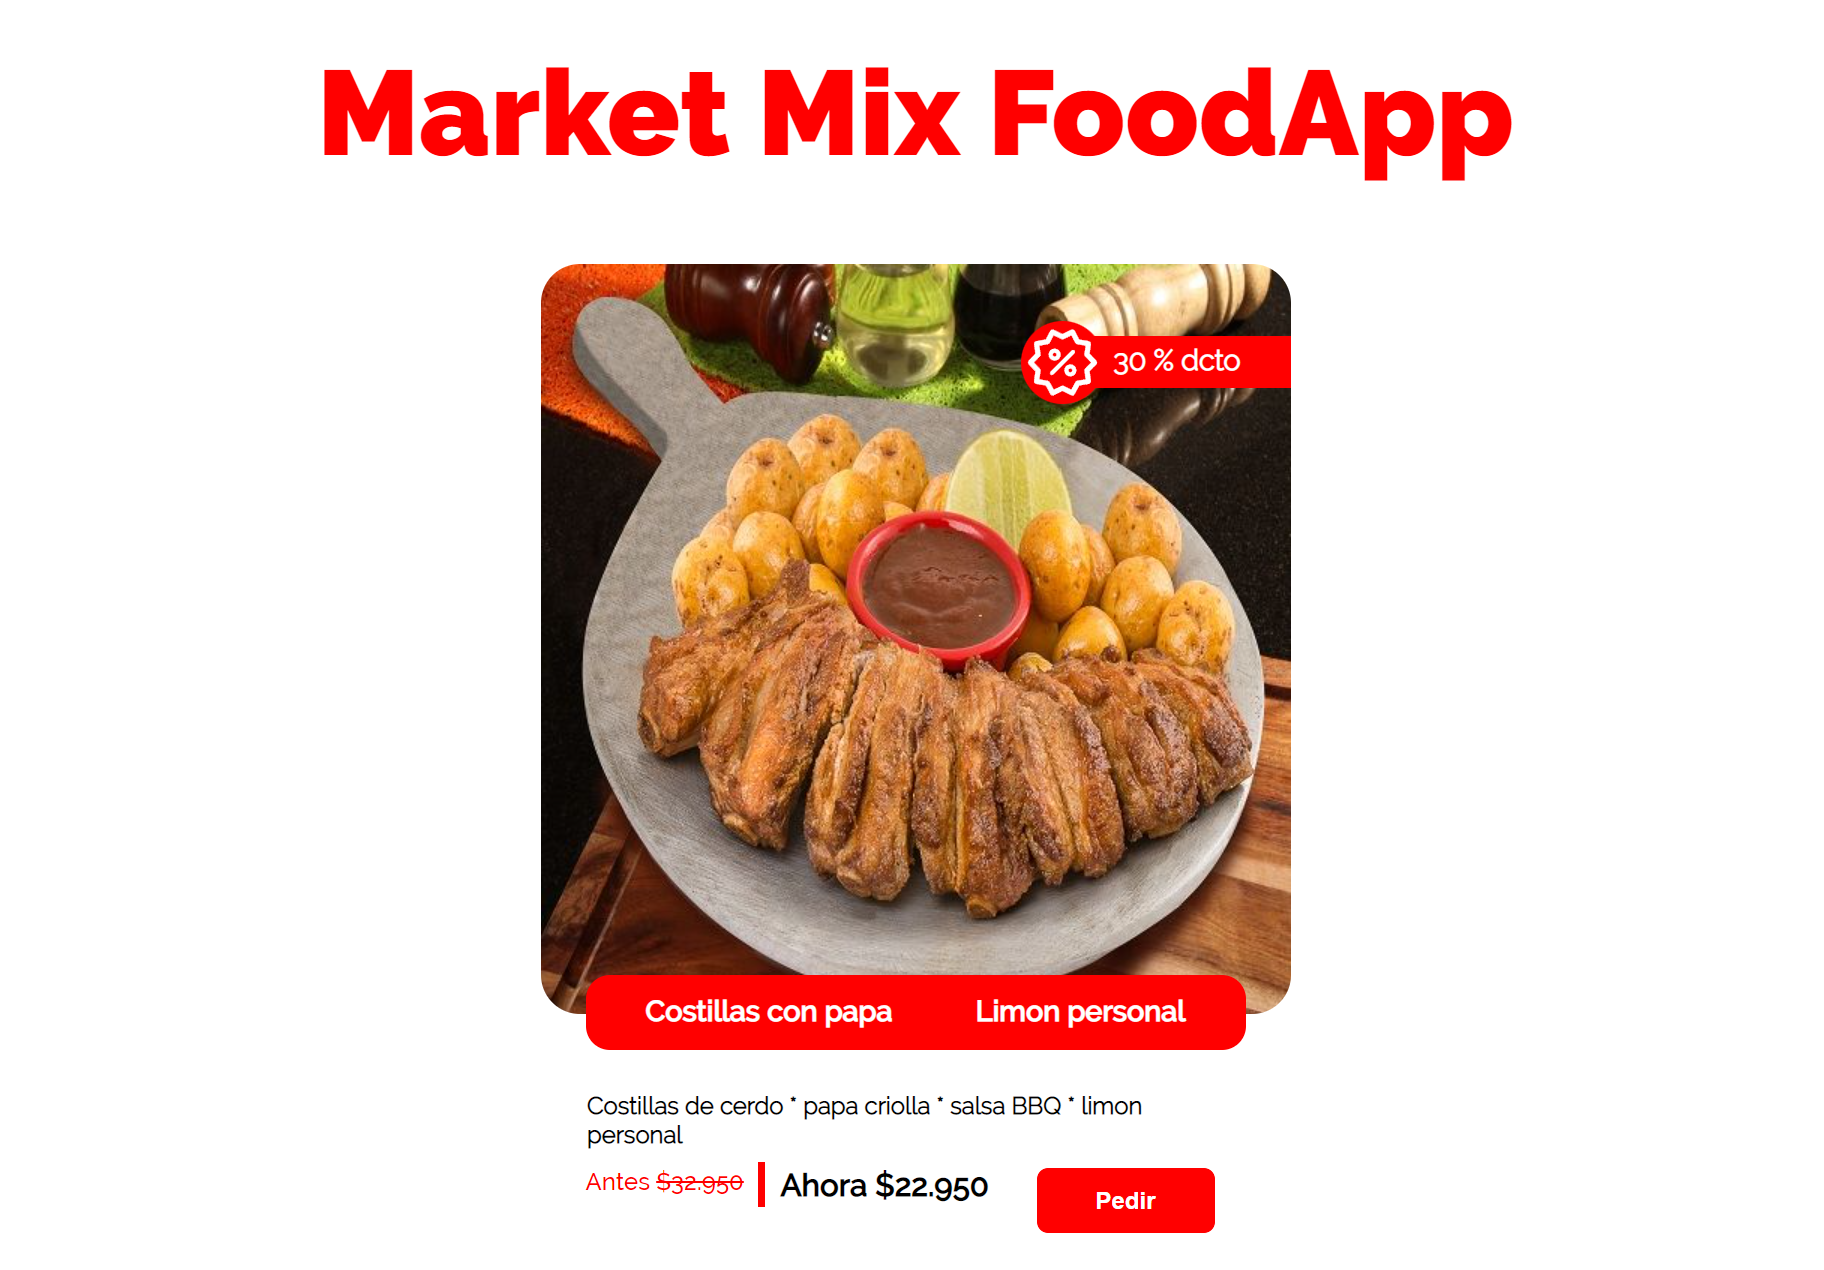
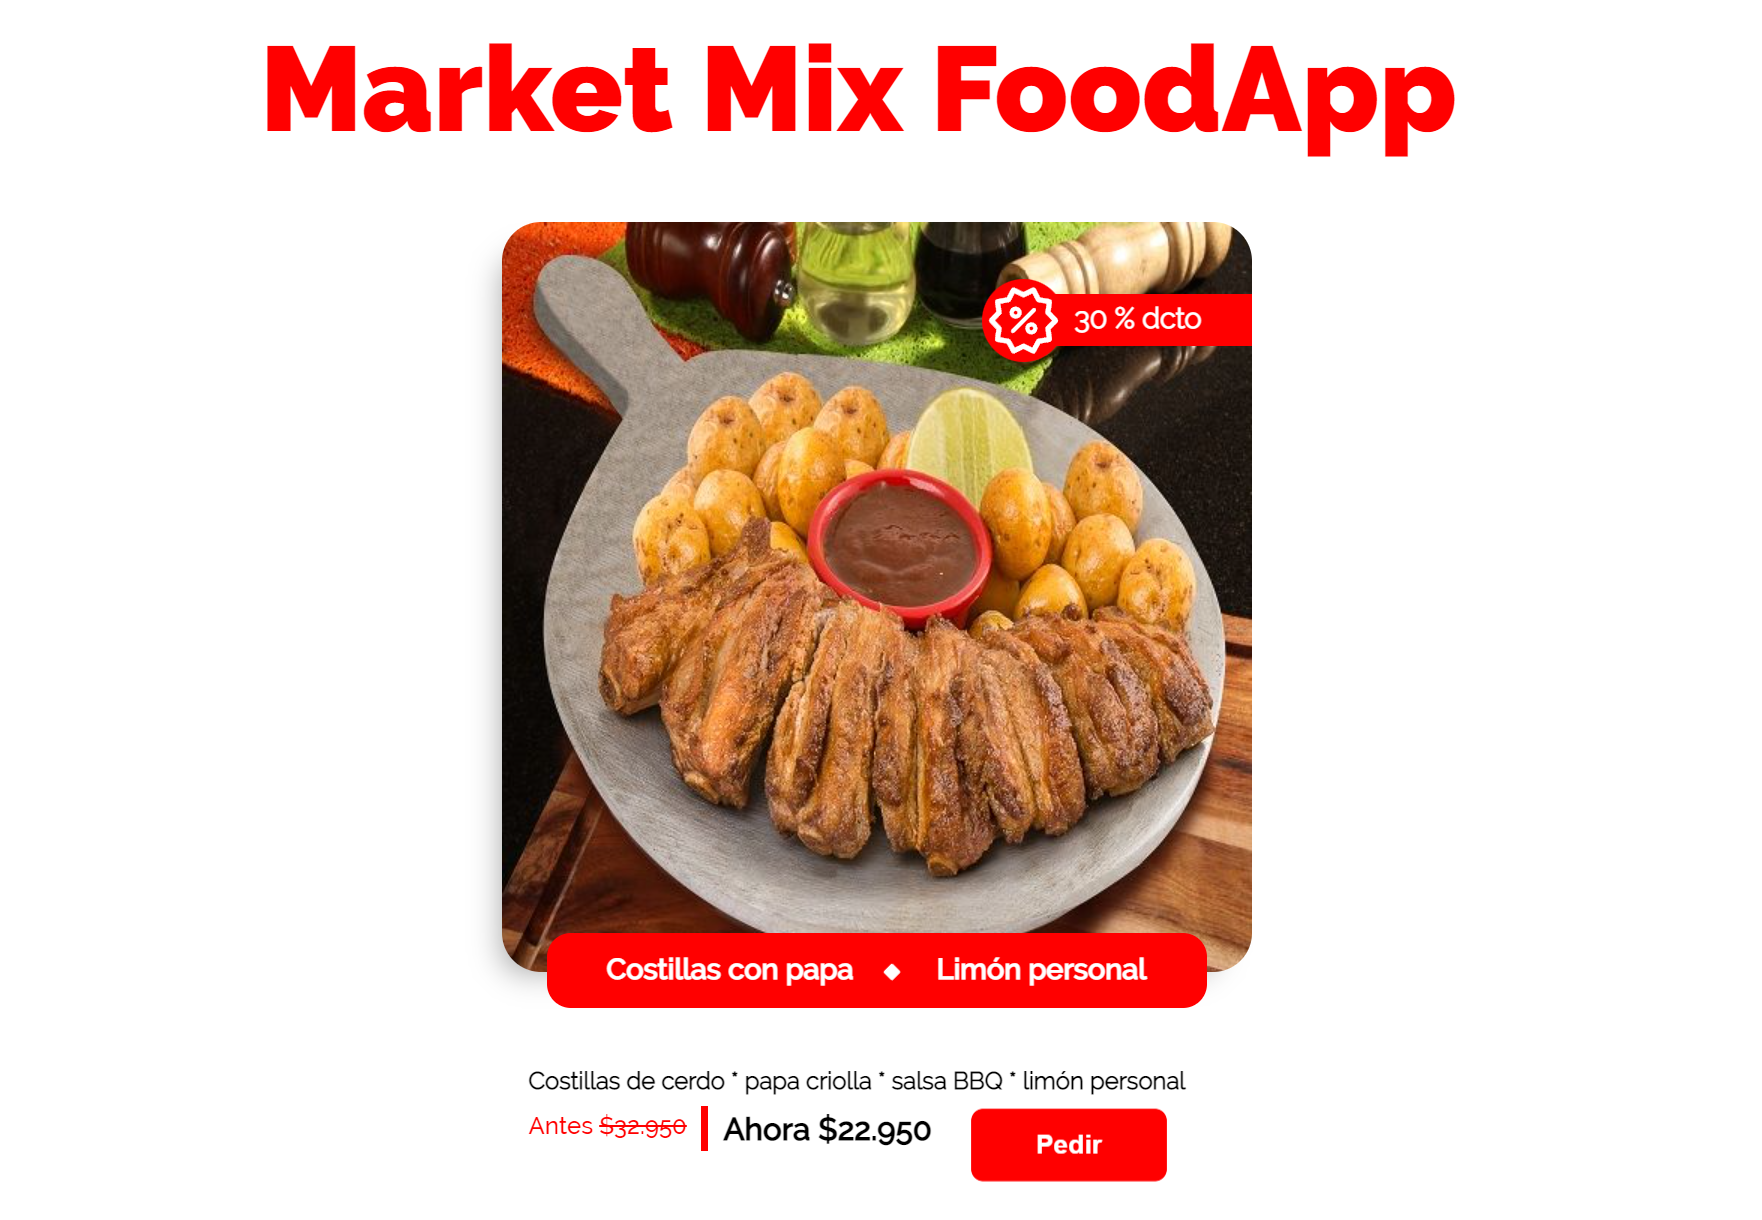
Hover Slide Done and some tweaks

Changed region(s): [[0.2809, 0.1557, 0.7179, 0.841], [0.1249, 0.0311, 0.8428, 0.1557], [0.3121, 0.841, 0.6867, 0.9967]]

diff --git a/styles.css b/styles.css
@@ -1,3 +1,94 @@
+@keyframes heartbeat {
+  from {
+    transform: scale(1);
+    transform-origin: center center;
+    animation-timing-function: ease-out;
+  }
+  10% {
+    transform: scale(0.91);
+    animation-timing-function: ease-in;
+  }
+  17% {
+    transform: scale(0.98);
+    animation-timing-function: ease-out;
+  }
+  33% {
+    transform: scale(0.87);
+    animation-timing-function: ease-in;
+  }
+  45% {
+    transform: scale(1);
+    animation-timing-function: ease-out;
+  }
+}
+
+@keyframes pulsate-fwd {
+  0% {
+    transform: scale(1);
+  }
+  50% {
+    transform: scale(1.1);
+  }
+  100% {
+    transform: scale(1);
+  }
+}
+
+@keyframes shadow-drop-2-tr {
+  0% {
+    transform: translateZ(0) translateX(0) translateY(0);
+    box-shadow: 0 0 0 0 transparent;
+  }
+  100% {
+    transform: translateZ(50px) translateX(-12px) translateY(12px);
+    box-shadow: 12px -12px 20px -12px rgba(0, 0, 0, 0.35);
+  }
+}
+
+@keyframes shadow-drop-2-bl {
+  0% {
+    transform: translateZ(0) translateX(0) translateY(0);
+    box-shadow: 0 0 0 0 transparent;
+  }
+  100% {
+    transform: translateZ(50px) translateX(12px) translateY(-12px);
+    box-shadow: -12px 12px 20px -12px rgba(0, 0, 0, 0.35);
+  }
+}
+
+@keyframes jello-vertical {
+  0% {
+    transform: scale3d(1, 1, 1);
+  }
+  30% {
+    transform: scale3d(0.75, 1.25, 1);
+  }
+  40% {
+    transform: scale3d(1.25, 0.75, 1);
+  }
+  50% {
+    transform: scale3d(0.85, 1.15, 1);
+  }
+  65% {
+    transform: scale3d(1.05, 0.95, 1);
+  }
+  75% {
+    transform: scale3d(0.95, 1.05, 1);
+  }
+  100% {
+    transform: scale3d(1, 1, 1);
+  }
+}
+
+@keyframes shadow-drop-bl {
+  0% {
+    box-shadow: 0 0 0 0 transparent;
+  }
+  100% {
+    box-shadow: -12px 12px 20px -12px rgba(0, 0, 0, 0.35);
+  }
+}
+
 @font-face {
   font-family: raleway;
   src: url("./fonts/Raleway-Black.ttf");
@@ -21,6 +112,10 @@
   font-family: raleway;
 }
 
+.main-text:hover {
+  animation: heartbeat 1.5s ease-in-out infinite both;
+}
+
 .grid-container {
   display: grid;
   grid-template-columns: repeat(3, 1fr);
@@ -36,6 +131,56 @@
   padding: 10px;
   width: 480px;
   height: 480px;
+  animation: shadow-drop-2-bl 0.4s cubic-bezier(0.25, 0.46, 0.45, 0.94) both;
+}
+
+.card:hover {
+  transform: translateY(20px);
+}
+.card:hover:before {
+  opacity: 60%;
+}
+.card:hover .info {
+  opacity: 1;
+  transform: translateY(0px);
+}
+.card:before {
+  content: "";
+  position: absolute;
+  top: 0;
+  left: 0;
+  display: block;
+  width: 100%;
+  height: 100%;
+  border-radius: 26px;
+  /* background: rgba(0, 0, 0, 0.6); */
+  background: red;
+  transition: 0.5s;
+  opacity: 0;
+}
+
+.card .info {
+  position: relative;
+  z-index: 3;
+  color: white;
+  opacity: 0;
+  transform: translateY(30px);
+  transition: 0.5s;
+}
+.card .info h1 {
+  margin: 0px;
+}
+.card .info p {
+  position: absolute;
+  top: 12rem;
+  left: 4rem;
+  color: white;
+  font-size: 1.3rem;
+  width: 80%;
+  font-family: raleway-medium;
+  font-weight: bold;
+  letter-spacing: 1px;
+  margin-top: 8px;
 }
 
 .floated-card {
@@ -89,15 +234,20 @@
   right: 40px;
 }
 
+.rhombus_icon {
+  position: absolute;
+  left: 50.8%;
+  top: 1.2rem;
+  fill: white;
+  filter: white;
+}
+
 .text-container {
   position: relative;
   grid-column: 2 / 3;
   grid-row: 2;
   padding: 30px;
-}
-
-.text-info {
-  border: 1px solid white;
+  z-index: 0;
 }
 
 .text-info > h1 {
@@ -110,6 +260,10 @@
   font-family: raleway-medium;
 }
 
+.button-container {
+  animation: shadow-drop-bl 0.4s cubic-bezier(0.25, 0.46, 0.45, 0.94) both;
+}
+
 .price-order > button {
   position: absolute;
   right: 50px;
@@ -118,6 +272,7 @@
   height: 45px;
   border: 1px solid white;
   background-color: red;
+  animation: pulsate-fwd 0.5s ease-in-out infinite both;
 }
 
 .price-before {

diff --git a/index.html b/index.html
@@ -4,6 +4,7 @@
     <meta charset="UTF-8" />
     <meta http-equiv="X-UA-Compatible" content="IE=edge" />
     <meta name="viewport" content="width=device-width, initial-scale=1.0" />
+    <link rel="icon" type="image/x-icon" href="./img/favicon.ico" />
     <title>FoodApp</title>
     <link rel="stylesheet" href="styles.css" />
   </head>
@@ -11,6 +12,9 @@
     <h1 class="main-text">Market Mix FoodApp</h1>
     <div class="grid-container">
       <div class="card">
+        <div class="info">
+          <p>Costillas de cerdo * papa criolla * salsa BBQ * limón personal</p>
+        </div>
         <div class="floated-card">
           <div>
             <object data="./img/discount.svg" width="55"></object>
@@ -19,13 +23,19 @@
         </div>
         <div class="footer-card">
           <h1 class="costillas">Costillas con papa</h1>
-          <h1 class="salsa-limon">Limon personal</h1>
+          <object
+            type="image/svg+xml"
+            data="./img/rhombus_icon.svg"
+            width="13"
+            class="rhombus_icon"
+          ></object>
+          <h1 class="salsa-limon">Limón personal</h1>
         </div>
       </div>
       <div class="text-container">
         <div class="text-info">
           <h1>
-            Costillas de cerdo * papa criolla * salsa BBQ * limon personal
+            Costillas de cerdo * papa criolla * salsa BBQ * limón personal
           </h1>
         </div>
         <div class="price-order">
